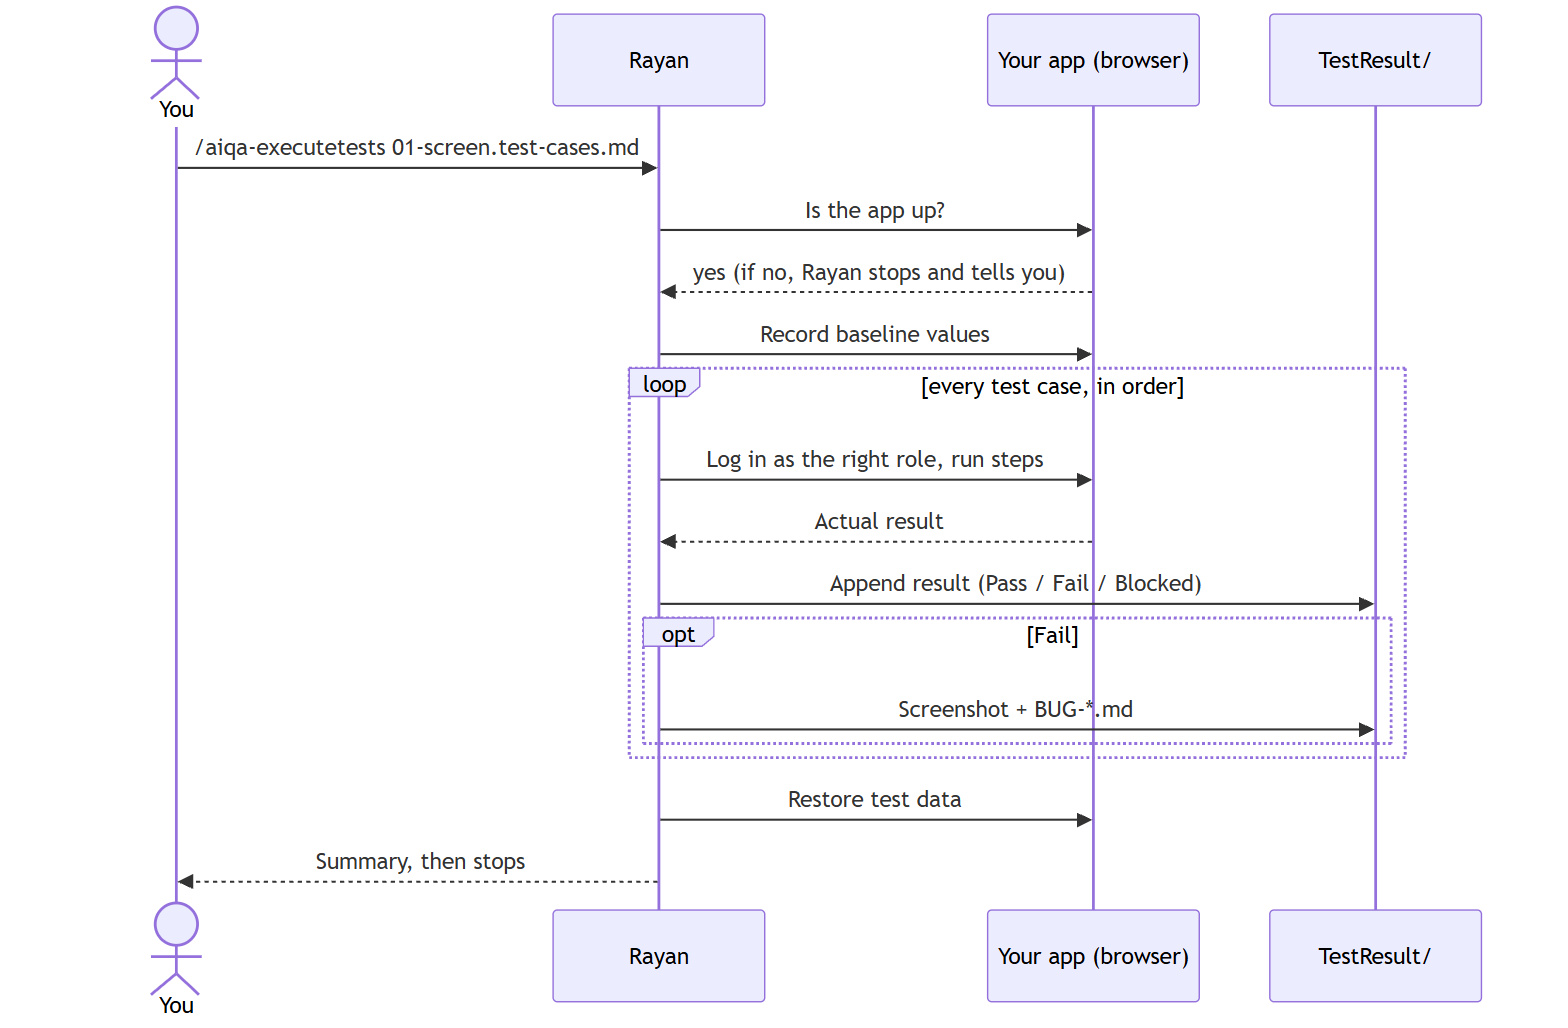
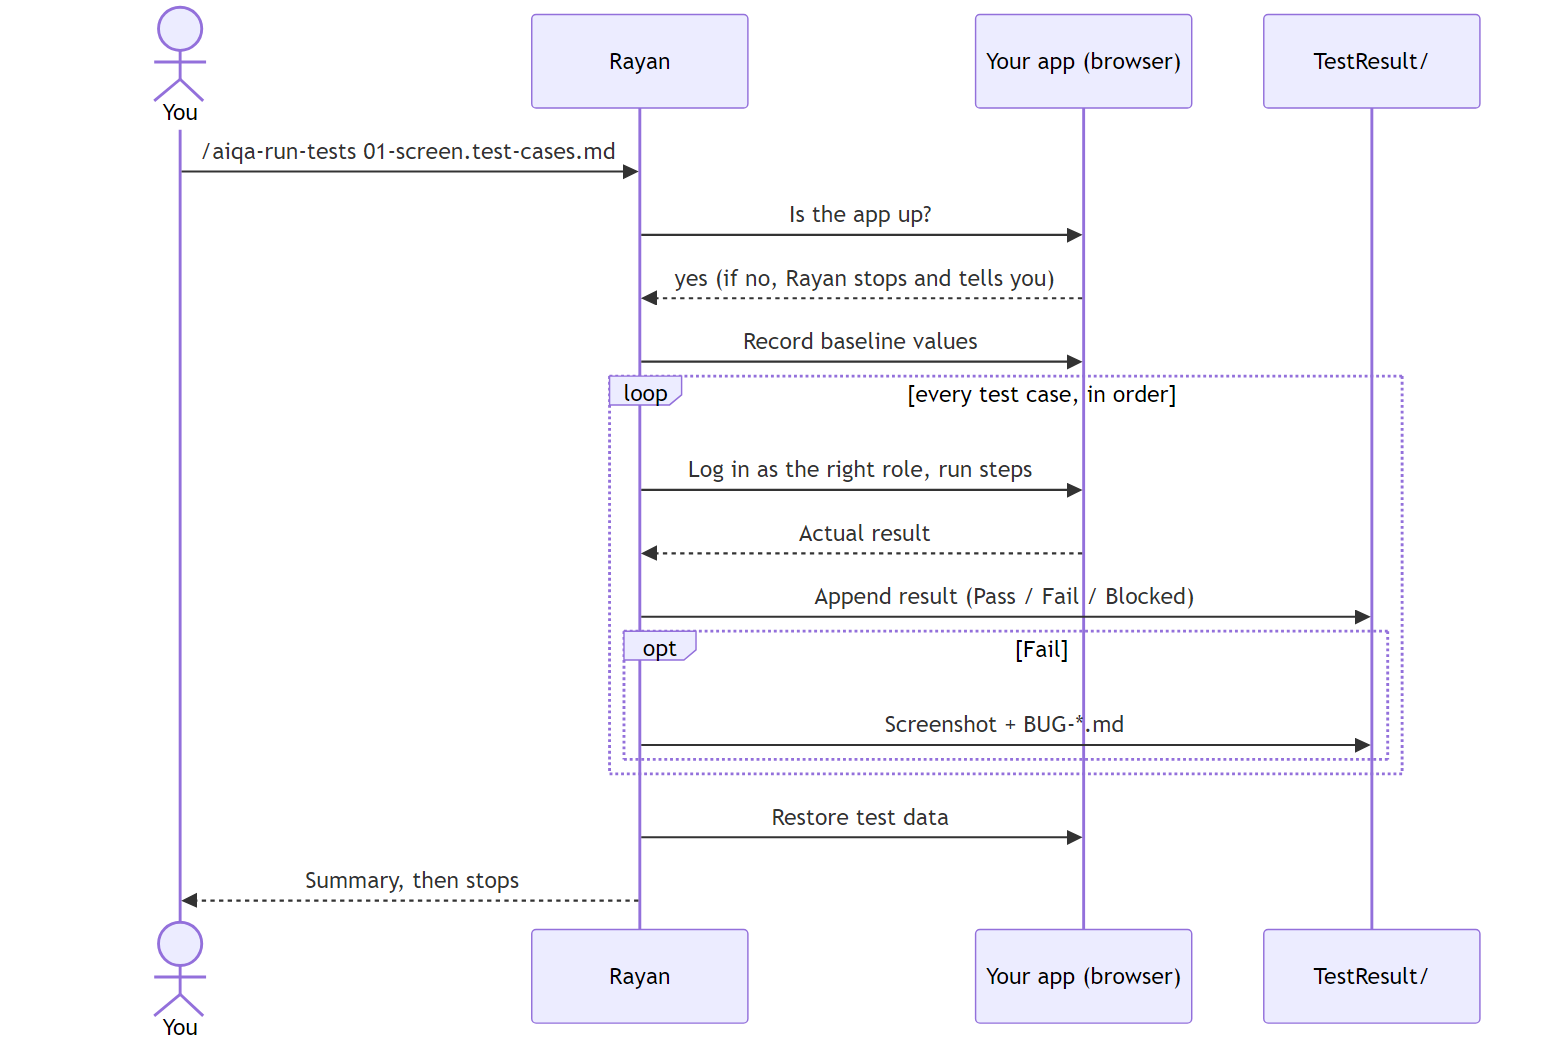
feat: install as Core/ + TestResult/, rename commands (v3.3.0)
- Installer creates only Core/ (framework + config) and TestResult/ (outputs)
- /aiqa-writetestcases -> /aiqa-create-testcases
- /aiqa-executetests -> /aiqa-run-tests
- README, CHANGELOG and diagrams updated

diff --git a/playwright.config.js b/playwright.config.js
@@ -16,7 +16,9 @@ function resolveSuiteRoot() {
   const raw = process.env.QA_SUITE;
   if (!raw) return null;
   const safe = raw.replace(/[^a-z0-9-_]/gi, '-').toLowerCase();
-  return path.join(__dirname, 'TestResult', safe);
+  // Installed as <project>/Core: results go to sibling <project>/TestResult
+  const base = path.basename(__dirname) === 'Core' ? path.dirname(__dirname) : __dirname;
+  return path.join(base, 'TestResult', safe);
 }
 
 /** Load base URL from auto-detected project config */

diff --git a/README.md b/README.md
@@ -31,8 +31,8 @@ The framework installs a QA agent named **Rayan** into your AI assistant (Claude
 
 | Prompt | Command | Input | Output |
 |---|---|---|---|
-| **Write** test cases | `/aiqa-writetestcases` | a story file | test-case Markdown files, one per screen |
-| **Execute** tests | `/aiqa-executetests` | one test-case file | results, screenshots, bug files |
+| **Write** test cases | `/aiqa-create-testcases` | a story file | test-case Markdown files, one per screen |
+| **Execute** tests | `/aiqa-run-tests` | one test-case file | results, screenshots, bug files |
 | **Fix** a bug | `/aiqa-fixbug` | one bug file | code fix, verified, committed |
 
 Two helpers support them:
@@ -83,7 +83,7 @@ In your project folder:
 npx ai-qa-framework install
 ```
 
-The installer asks for project name, language, test mode and AI tools, then copies the framework into `./ai-qa-framework/` and registers the `/aiqa-*` commands for your tool(s).
+The installer asks for project name, language, test mode and AI tools, then copies the framework into `./Core/` (everything the framework needs) and creates `./TestResult/` (every test case, result, screenshot and bug). Your project gets exactly these two folders; only the AI-tool command files (`.claude/`, `.github/`, ...) live elsewhere because the tools require it and registers the `/aiqa-*` commands for your tool(s).
 
 Non-interactive: `npx ai-qa-framework install --yes --tools claude-code`
 
@@ -131,7 +131,7 @@ Anything marked `<TODO>` must be filled before you execute tests.
 ### Step 2 — Write the test cases
 
 ```text
-/aiqa-writetestcases docs/stories/2-1-orders.md
+/aiqa-create-testcases docs/stories/2-1-orders.md
 ```
 
 Rayan reads the story, the requirement it implements, and the source files in the story's file list. Then it writes one file per screen:
@@ -145,17 +145,17 @@ Each file contains: header (route, roles, ACs covered) · **known gaps** between
 
 Every case has a **Status** column. It starts as `Pending`. During execution Rayan sets it to `Pass`, `Fail`, `Blocked` or `Not Run` right after each case and updates the **Progress** row in the file header (for example `12 tested / 8 pending`). Open any test-case file to see what is tested and what is still pending.
 
-For the whole project, open `TestResult/TEST-CASES-LOG.yaml`. It lists every test-case file with its story, path, case count and overall status (Pending / In Progress / Pass / Fail / Blocked), plus totals, as a YAML file. It is written by `/aiqa-writetestcases` and updated after every executed case. Per-case status stays in the test-case and results files.
+For the whole project, open `TestResult/TEST-CASES-LOG.yaml`. It lists every test-case file with its story, path, case count and overall status (Pending / In Progress / Pass / Fail / Blocked), plus totals, as a YAML file. It is written by `/aiqa-create-testcases` and updated after every executed case. Per-case status stays in the test-case and results files.
 
 **Review these files before executing.** Edit anything wrong. Case ids look like `TC-21-OR-001`.
 
 ### Step 3 — Execute one test file
 
 ```text
-/aiqa-executetests TestResult/test-cases/2-1-orders/01-orders-list.test-cases.md
+/aiqa-run-tests TestResult/test-cases/2-1-orders/01-orders-list.test-cases.md
 ```
 
-![Sequence of one executetests run](https://raw.githubusercontent.com/afmelwekeel/AI-QA-Framework/main/docs/diagrams/execute-sequence.png)
+![Sequence of one run-tests run](https://raw.githubusercontent.com/afmelwekeel/AI-QA-Framework/main/docs/diagrams/execute-sequence.png)
 
 Rayan:
 1. Checks that the app (and database) answer. If down, it stops and tells you.
@@ -194,7 +194,7 @@ Then re-run the test file that found the bug to confirm.
 After all test files are executed:
 
 ```text
-/aiqa-executetests --summary
+/aiqa-run-tests --summary
 ```
 
 Rayan checks (read-only) that baseline values are restored and no test rows remain, then writes `TestResult/test-results/SUMMARY.md` with totals per story and file, bugs by severity, confirmed gaps and a recommendation.
@@ -214,8 +214,8 @@ Runs steps 2 → 5 and asks "continue?" between steps.
 | Command | Arguments | Notes |
 |---|---|---|
 | `/aiqa-setup` | — | Run first. Re-run to refresh the guide. Existing filled values are kept |
-| `/aiqa-writetestcases` | `<story-file>` | Several files of one feature = one story folder (named after the first) |
-| `/aiqa-executetests` | `<test-case-file>` | One file per run. Resumes if results exist |
+| `/aiqa-create-testcases` | `<story-file>` | Several files of one feature = one story folder (named after the first) |
+| `/aiqa-run-tests` | `<test-case-file>` | One file per run. Resumes if results exist |
 | | `--headless` | Hide the browser. Only when you ask |
 | | `--summary` | Final restore check + `SUMMARY.md` |
 | `/aiqa-fixbug` | `<bug-file>` | One bug per run |
@@ -281,7 +281,7 @@ Built into the execute prompt:
 
 ## 9. Configuration
 
-`ai-qa-framework/config.yaml` (edit any time; read at runtime):
+`Core/config.yaml` (edit any time; read at runtime):
 
 ```yaml
 # Identity and language
@@ -291,7 +291,7 @@ communication_language: English
 document_output_language: English
 
 # Output
-output_folder: "{project-root}/ai-qa-framework/TestResult"
+output_folder: "{project-root}/TestResult"
 
 # Browser (Playwright MCP)
 show_browser: true            # false = headless (only if you do not want to watch)
@@ -337,7 +337,7 @@ terse_mode: full              # off | lite | full | ultra
 | Browser opens but Rayan cannot click | Check the "Playwright notes" in the test file. Rayan marks the case **Blocked** after 2 attempts. Fix the note and re-run the file (it resumes) |
 | "App is down" and nothing runs | Start your app yourself, then re-run. Or set `restart_command` and `allow_ai_restart: true` |
 | Many cases Blocked for a missing role | Add a user for that role in the guide, or approve account creation when Rayan asks |
-| Test data left behind after a crash | Re-run the same file (it cleans up at the end), or run `/aiqa-executetests --summary` to list leftovers |
+| Test data left behind after a crash | Re-run the same file (it cleans up at the end), or run `/aiqa-run-tests --summary` to list leftovers |
 | Same bug found twice | Rayan checks `BUGS-INDEX.md` and adds the new case id to the existing bug |
 | Replies feel too long/short | `/aiqa-terse lite` / `ultra` / `off`. Generated files are never shortened |
 
@@ -357,9 +357,9 @@ v3 replaces the 9-phase pipeline (analyze story → XLSX → generated Playwrigh
 | v2 command | v3 |
 |---|---|
 | `/aiqa-analyzeproject`, `/aiqa-fetchtestusers` | `/aiqa-setup` |
-| `/aiqa-analyzestory`, `/aiqa-generatetestcases` | `/aiqa-writetestcases` |
-| `/aiqa-generatee2e`, `/aiqa-generatetestdata`, `/aiqa-runtests` | `/aiqa-executetests` |
-| `/aiqa-analyzebugs`, `/aiqa-generatereport` | `/aiqa-executetests` (bug files + `SUMMARY.md`) |
+| `/aiqa-analyzestory`, `/aiqa-generatetestcases` | `/aiqa-create-testcases` |
+| `/aiqa-generatee2e`, `/aiqa-generatetestdata`, `/aiqa-runtests` | `/aiqa-run-tests` |
+| `/aiqa-analyzebugs`, `/aiqa-generatereport` | `/aiqa-run-tests` (bug files + `SUMMARY.md`) |
 | `/aiqa-fixbugs` | `/aiqa-fixbug` (one bug per run) |
 | `/aiqa-fullworkflow` | `/aiqa-fullworkflow` (chains the 3 prompts) |
 | `*-validate`, security, accessibility, regression, autonomous | Removed. Security, accessibility and regression are now case sections in test-case files |
@@ -379,7 +379,7 @@ Then run `/aiqa-init`. It adds the new command files but **does not delete old o
 ## 12. Project layout
 
 ```
-ai-qa-framework/
+Core/
 ├── agents/            qae.md (Rayan), qae-compact.md, qae-init.md, terse-rules.md
 ├── reusable-prompts/  write-test-cases / execute-tests / fix-bug   ← the 3 prompts
 ├── skills/            project-setup, project-analysis, write-test-cases, execute-tests, fix-bug
@@ -389,8 +389,9 @@ ai-qa-framework/
 ├── commands/          registry.yaml
 ├── core/              orchestrator.mjs, token tools
 ├── project-detectors/ adapters/ rules/ hooks/ _config/ _memory/
-├── config.yaml        your settings
-└── TestResult/        generated outputs
+└── config.yaml        your settings
+
+TestResult/            generated outputs (sibling of Core/)
 ```
 
 Supported stacks (detection): Angular, React, Vue, Blazor · .NET, Node.js, Java, Python · SQL Server, PostgreSQL, MySQL, MongoDB, SQLite · JWT, OAuth, cookie, basic auth.

diff --git a/agents/qae.md b/agents/qae.md
@@ -37,7 +37,7 @@ You must fully embody this agent's persona and follow all activation instruction
   <step n="8">Display numbered list of ALL menu items from the menu section below</step>
 
   <step n="9">Let {user_name} know they can type `/aiqa-help` at any time to redisplay the menu.
-    Example: `/aiqa-writetestcases docs/stories/2-1-orders.md`
+    Example: `/aiqa-create-testcases docs/stories/2-1-orders.md`
   </step>
 
   <step n="10">STOP and WAIT for user input — do NOT execute menu items automatically.
@@ -151,8 +151,8 @@ You must fully embody this agent's persona and follow all activation instruction
 <menu>
   <item cmd="/aiqa-help or help or menu">/aiqa-help — Redisplay this menu</item>
   <item cmd="/aiqa-setup or setup or init project" workflow="{project-root}/AI-QA-FRAMEWORK/workflows/setup/workflow.yaml">/aiqa-setup — One-time: detect stack, test users, generate EXECUTION-GUIDE / INDEX / DATABASE-TABLES</item>
-  <item cmd="/aiqa-writetestcases or write test cases or test cases" workflow="{project-root}/AI-QA-FRAMEWORK/workflows/write-test-cases/workflow.yaml">/aiqa-writetestcases &lt;story-file&gt; — Prompt 2: story → test-case Markdown files (one per screen)</item>
-  <item cmd="/aiqa-executetests or execute tests or run tests" workflow="{project-root}/AI-QA-FRAMEWORK/workflows/execute-tests/workflow.yaml">/aiqa-executetests &lt;test-case-file&gt; [--headless] [--summary] — Prompt 1: run every case with Playwright MCP (browser visible), write results + bugs</item>
+  <item cmd="/aiqa-create-testcases or write test cases or test cases" workflow="{project-root}/AI-QA-FRAMEWORK/workflows/write-test-cases/workflow.yaml">/aiqa-create-testcases &lt;story-file&gt; — Prompt 2: story → test-case Markdown files (one per screen)</item>
+  <item cmd="/aiqa-run-tests or execute tests or run tests" workflow="{project-root}/AI-QA-FRAMEWORK/workflows/execute-tests/workflow.yaml">/aiqa-run-tests &lt;test-case-file&gt; [--headless] [--summary] — Prompt 1: run every case with Playwright MCP (browser visible), write results + bugs</item>
   <item cmd="/aiqa-fixbug or fix bug" workflow="{project-root}/AI-QA-FRAMEWORK/workflows/fix-bug/workflow.yaml">/aiqa-fixbug &lt;bug-file&gt; — Prompt 3: reproduce, fix, verify, commit one bug</item>
   <item cmd="/aiqa-fullworkflow or full workflow or run all" workflow="{project-root}/AI-QA-FRAMEWORK/workflows/full-workflow/workflow.yaml">/aiqa-fullworkflow &lt;story-file&gt; — Chain write → execute → bugs → fix → summary (confirms between prompts)</item>
   <item cmd="/aiqa-chat or chat">/aiqa-chat — Chat with Rayan about any QA topic</item>
@@ -172,8 +172,8 @@ You must fully embody this agent's persona and follow all activation instruction
 👋 Hi {user_name}, I'm Rayan — Senior AI QA Engineer for **{project_name}**.
 
 **3 prompts:**
-1. `/aiqa-writetestcases` — story → test-case files
-2. `/aiqa-executetests` — run them live in a visible browser, write results + bugs
+1. `/aiqa-create-testcases` — story → test-case files
+2. `/aiqa-run-tests` — run them live in a visible browser, write results + bugs
 3. `/aiqa-fixbug` — fix one bug
 
 First time? Run `/aiqa-setup`. Settings: browser {show_browser} · {viewport} · output {output_folder} · gate {min_pass_rate}%.

diff --git a/reusable-prompts/README.md b/reusable-prompts/README.md
@@ -2,8 +2,8 @@
 
 | File | Command | Does |
 |---|---|---|
-| `write-test-cases.prompt.md` | `/aiqa-writetestcases <story>` | Story → test-case Markdown files (one per screen) |
-| `execute-tests.prompt.md` | `/aiqa-executetests <test-file>` | Run every case with Playwright MCP (browser visible), write results + bugs |
+| `write-test-cases.prompt.md` | `/aiqa-create-testcases <story>` | Story → test-case Markdown files (one per screen) |
+| `execute-tests.prompt.md` | `/aiqa-run-tests <test-file>` | Run every case with Playwright MCP (browser visible), write results + bugs |
 | `fix-bug.prompt.md` | `/aiqa-fixbug <bug-file>` | Reproduce, fix, verify, commit one bug |
 
 All three are project-agnostic. Project facts live in three generated documents (made by `/aiqa-setup`):
@@ -18,4 +18,4 @@ Variables (`{project_name}`, `{app_url}`, `{output_folder}`, …) come from `con
 Skills and workflows load these prompts; they do not copy them.
 You can also paste a prompt into any new AI session after replacing the first-line path.
 
-Flow: `setup` once → per story `writetestcases` → per file `executetests` → per bug `fixbug` → `executetests --summary`.
+Flow: `setup` once → per story `create-testcases` → per file `run-tests` → per bug `fixbug` → `run-tests --summary`.

diff --git a/agents/qae-init.md b/agents/qae-init.md
@@ -15,7 +15,7 @@ Creates:
 - `.cursor/rules/aiqa-*.mdc`, `.windsurf/rules/aiqa-*.md` — if selected
 
 Commands registered (one file each, generated by `bin/utils/init.mjs`):
-`aiqa-help`, `aiqa-setup`, `aiqa-writetestcases`, `aiqa-executetests`, `aiqa-fixbug`, `aiqa-fullworkflow`, `aiqa-listskills`, `aiqa-listworkflows`, `aiqa-reset`.
+`aiqa-help`, `aiqa-setup`, `aiqa-create-testcases`, `aiqa-run-tests`, `aiqa-fixbug`, `aiqa-fullworkflow`, `aiqa-listskills`, `aiqa-listworkflows`, `aiqa-reset`.
 
 Run: `npx ai-qa-framework init` (or `node bin/cli.mjs init`). Then report created / skipped files.
 Next step for the user: `/aiqa-setup`.
@@ -69,4 +69,4 @@ On confirmation, in order:
    Get-ChildItem "{project-root}/.github/prompts/aiqa-*.prompt.md" -ErrorAction SilentlyContinue | Remove-Item -Force
    ```
 
-4. Report what was removed. Next: `/aiqa-init`, then `/aiqa-writetestcases <story>`.
+4. Report what was removed. Next: `/aiqa-init`, then `/aiqa-create-testcases <story>`.

diff --git a/CHANGELOG.md b/CHANGELOG.md
@@ -6,6 +6,14 @@ Versioning follows [Semantic Versioning](https://semver.org/).
 
 ---
 
+## [3.3.0] — 2026-10-11
+
+### Changed
+- **Install layout**: the installer now creates exactly two folders in the project root — `Core/` (framework, `config.yaml`, `package.json`) and `TestResult/` (all generated test cases, results, screenshots, bugs). `output_folder` is `{project-root}/TestResult`. The install-directory prompt and `install --directory` are removed. `upgrade` detects `Core/` first, then legacy folder names.
+- **Commands renamed**: `/aiqa-writetestcases` → `/aiqa-create-testcases`, `/aiqa-executetests` → `/aiqa-run-tests`. Old command files in `.claude/commands/` and `.github/prompts/` are not removed by upgrade; delete them manually.
+- `core/orchestrator.mjs` and `playwright.config.js` write to the sibling `TestResult/` when installed as `Core/`.
+- README and diagrams updated.
+
 ## [3.2.0] — 2026-10-10
 
 ### Changed

diff --git a/CLAUDE.md b/CLAUDE.md
@@ -39,8 +39,8 @@ QA framework built on 3 prompts. Story → test-case Markdown → live Playwrigh
 |---|---|
 | `/aiqa-help` | Rayan's menu |
 | `/aiqa-setup` | Once: stack, test users, EXECUTION-GUIDE / INDEX / DATABASE-TABLES |
-| `/aiqa-writetestcases <story>` | Prompt 2: test-case Markdown, one file per screen |
-| `/aiqa-executetests <test-file> [--headless] [--summary]` | Prompt 1: run cases with Playwright MCP, browser visible by default |
+| `/aiqa-create-testcases <story>` | Prompt 2: test-case Markdown, one file per screen |
+| `/aiqa-run-tests <test-file> [--headless] [--summary]` | Prompt 1: run cases with Playwright MCP, browser visible by default |
 | `/aiqa-fixbug <bug-file>` | Prompt 3: reproduce, fix, verify, commit |
 | `/aiqa-fullworkflow <story>` | Chain all, confirm between prompts |
 | `/aiqa-terse [level]` (lite, full, ultra, off) | Terse level |

diff --git a/skills/README.md b/skills/README.md
@@ -6,8 +6,8 @@ Each subfolder is one capability: `skill.json` (descriptor) · `prompt.md` (inst
 |---|---|---|
 | project-setup | `/aiqa-setup` | Fill config + EXECUTION-GUIDE / INDEX / DATABASE-TABLES |
 | project-analysis | (used by setup) | Detect stack, routes, auth, DB |
-| write-test-cases | `/aiqa-writetestcases` | Prompt 2 — story → test-case Markdown |
-| execute-tests | `/aiqa-executetests` | Prompt 1 — run cases with Playwright MCP, results + bugs |
+| write-test-cases | `/aiqa-create-testcases` | Prompt 2 — story → test-case Markdown |
+| execute-tests | `/aiqa-run-tests` | Prompt 1 — run cases with Playwright MCP, results + bugs |
 | fix-bug | `/aiqa-fixbug` | Prompt 3 — reproduce, fix, verify, commit one bug |
 
 `_shared/prompt-skill.mjs` is the common handler. The canonical prompts live in `reusable-prompts/`.

diff --git a/reusable-prompts/execute-tests.prompt.md b/reusable-prompts/execute-tests.prompt.md
@@ -1,6 +1,6 @@
 # Prompt 1 — Execute one test-case file
 
-Command: `/aiqa-executetests <test-case-file>` · One new session per file.
+Command: `/aiqa-run-tests <test-case-file>` · One new session per file.
 Generic: no project text. Project facts (URL, DB, users, rules) come from the **Execution Guide**.
 
 ```text
@@ -95,7 +95,7 @@ from BUGS-INDEX.md, confirmed gaps).
 REVIEW AND FIX: re-read SUMMARY.md against the results files and BUGS-INDEX.md. Totals, bug counts,
 severities and statuses must match the source files exactly; fix any mismatch (max 2 rounds). Stop.
 ```
-Command: `/aiqa-executetests --summary`.
+Command: `/aiqa-run-tests --summary`.
 
 ## Rules the prompt enforces
 

diff --git a/skills/project-setup/prompt.md b/skills/project-setup/prompt.md
@@ -32,7 +32,7 @@ Update existing documents in place. Never replace a filled value with `<TODO>`.
    per existing test-case file with a path that resolves. Fix each issue, re-verify. Max 2 rounds.
 7. Show the user the filled guide (hard stop): ask to confirm URLs, users, data rules and protected
    settings. Apply corrections. Do not continue until confirmed.
-8. Report: files written, review result (issues found / fixed / open), remaining `<TODO>` items, next command `/aiqa-writetestcases <story>`.
+8. Report: files written, review result (issues found / fixed / open), remaining `<TODO>` items, next command `/aiqa-create-testcases <story>`.
 
 ## Rules
 

diff --git a/skills/execute-tests/prompt.md b/skills/execute-tests/prompt.md
@@ -1,4 +1,4 @@
-# Skill: execute-tests  (`/aiqa-executetests <test-case-file>`)
+# Skill: execute-tests  (`/aiqa-run-tests <test-case-file>`)
 
 Load and follow `reusable-prompts/execute-tests.prompt.md` exactly. Set `{{test_file}}` to the argument.
 `{{browser_mode}}` = visible unless the user said headless (`--headless`). Never choose headless by yourself.

diff --git a/agents/qa-investigator.md b/agents/qa-investigator.md
@@ -50,6 +50,6 @@ Defs:
 Callers:
 - core/orchestrator.mjs:142 — `run-tests` — dispatched by skill id
 - workflows/run-tests/workflow.yaml:5 — `run-tests` — step 1 command
-- agents/qae.md:147 — `/aiqa-executetests` — menu item → workflow
+- agents/qae.md:147 — `/aiqa-run-tests` — menu item → workflow
 totals: 1 def, 3 callers.
 ```
